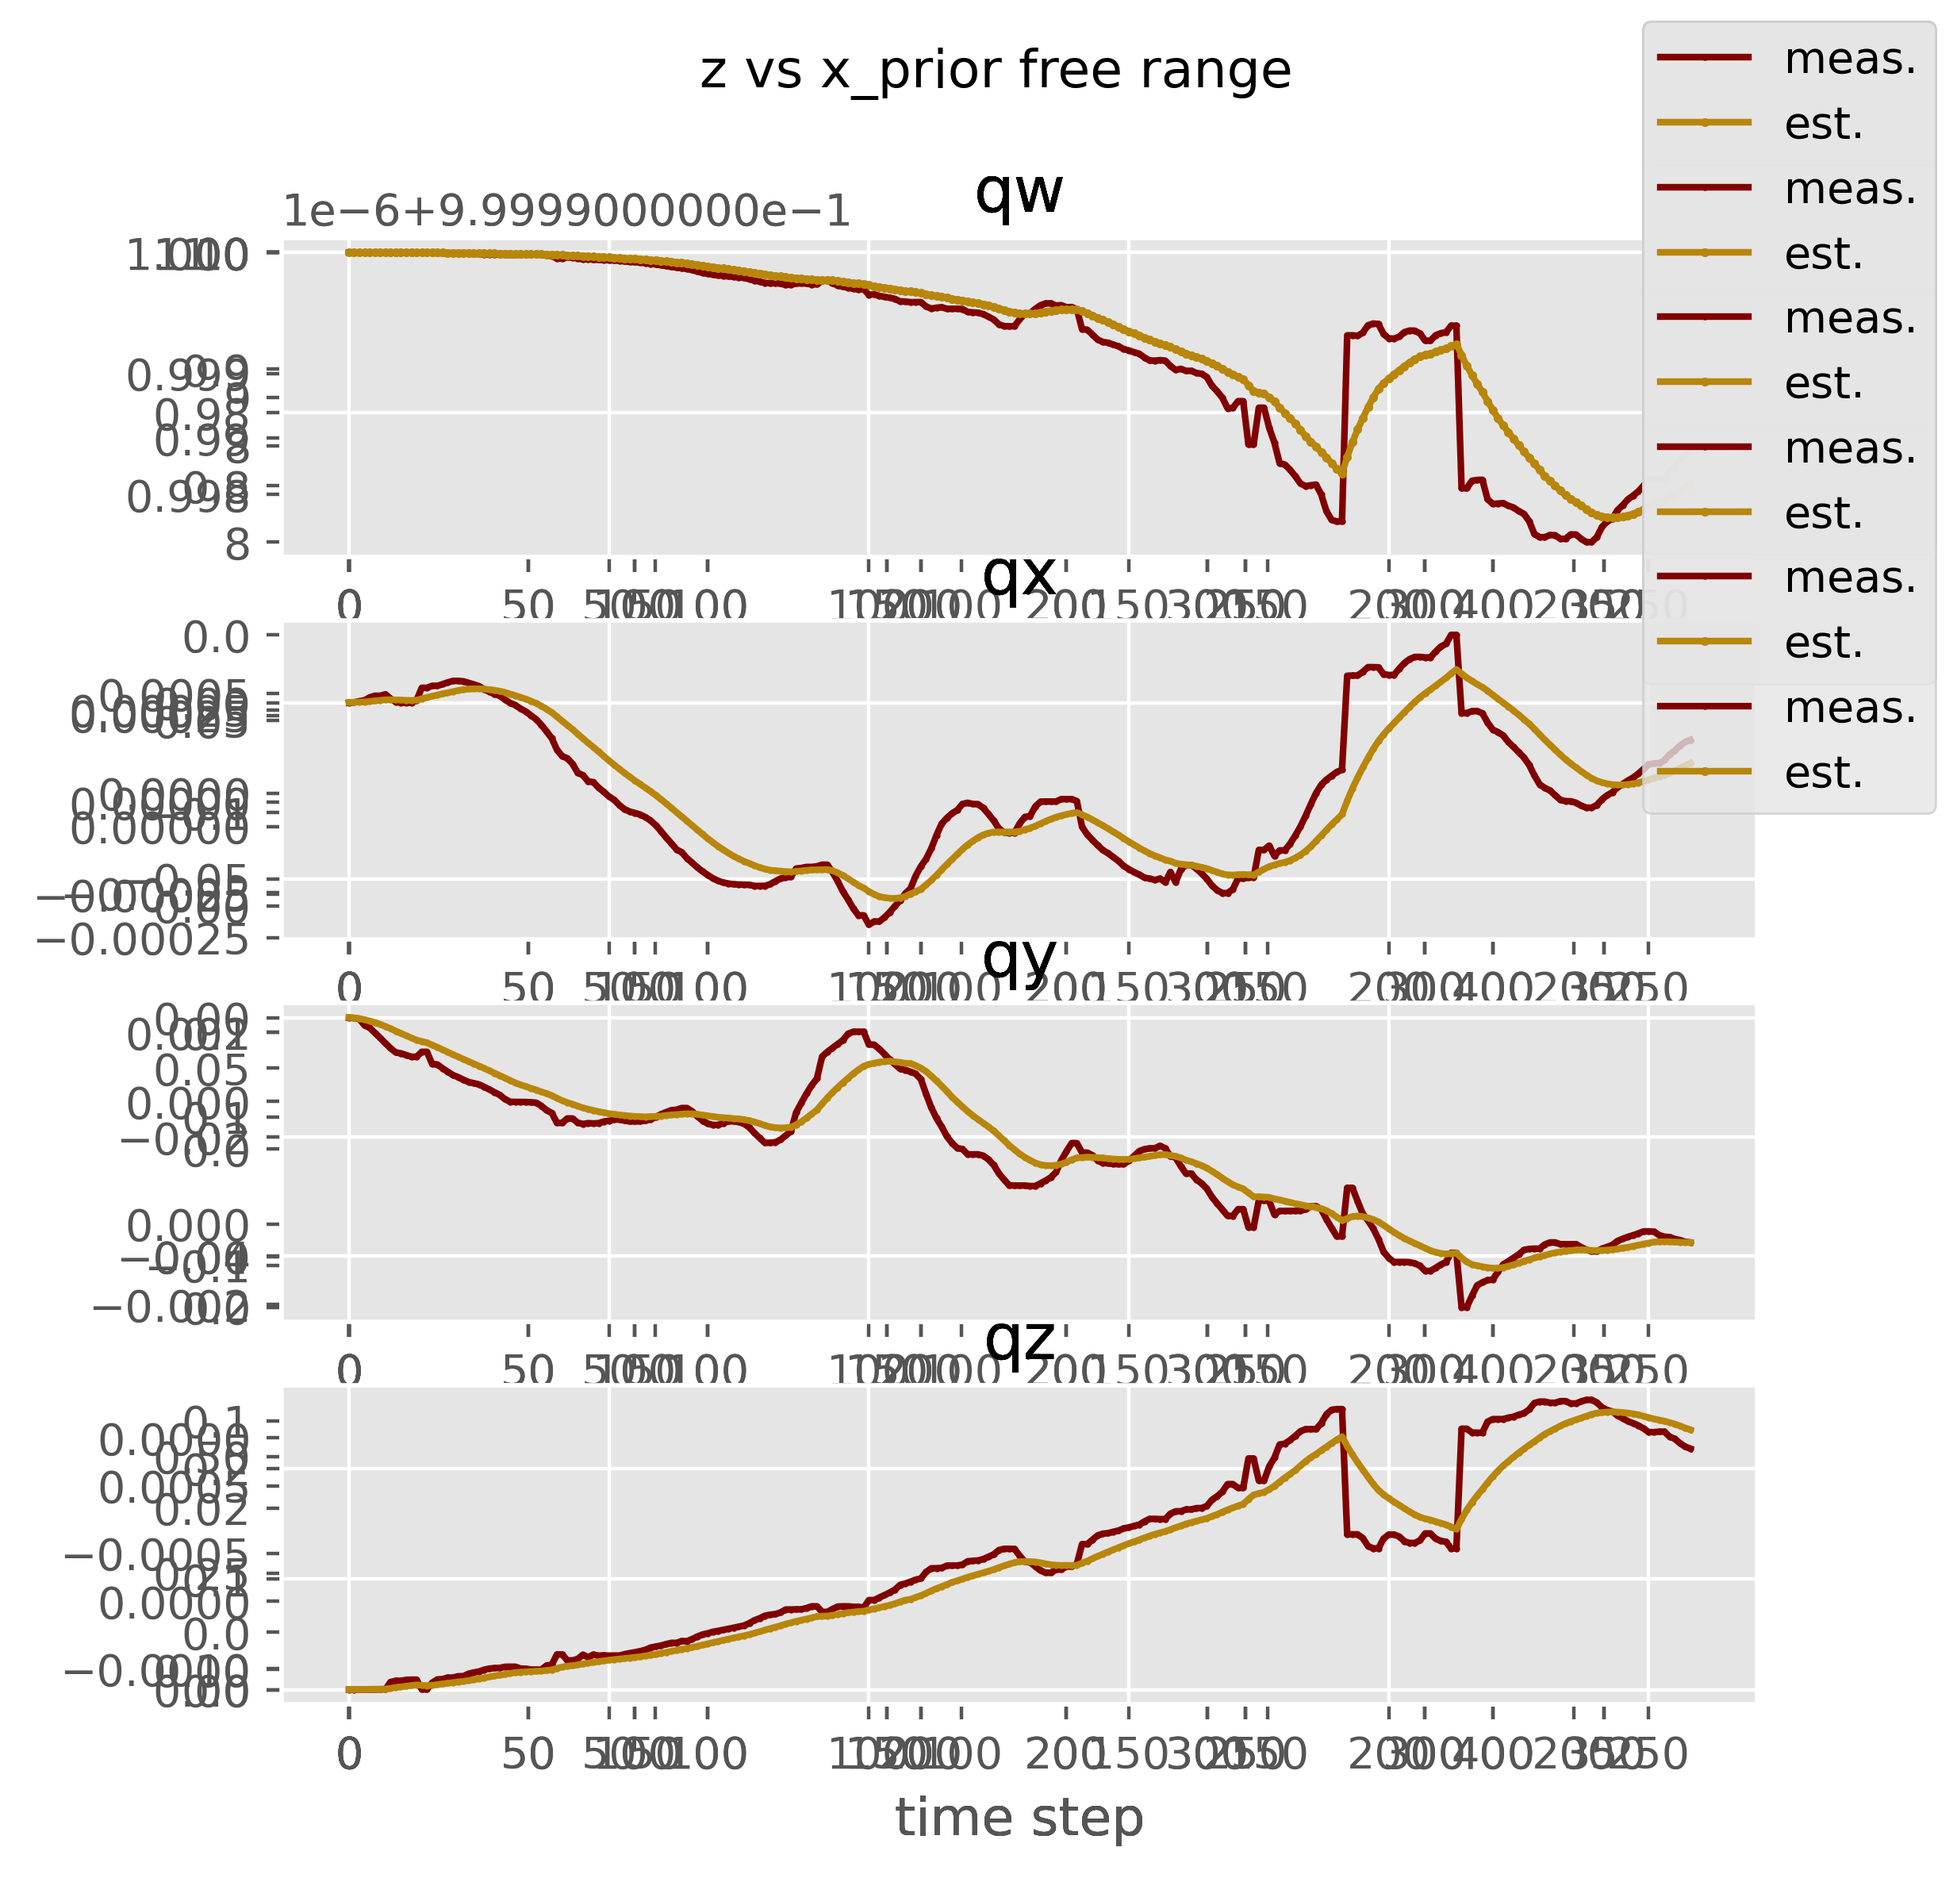
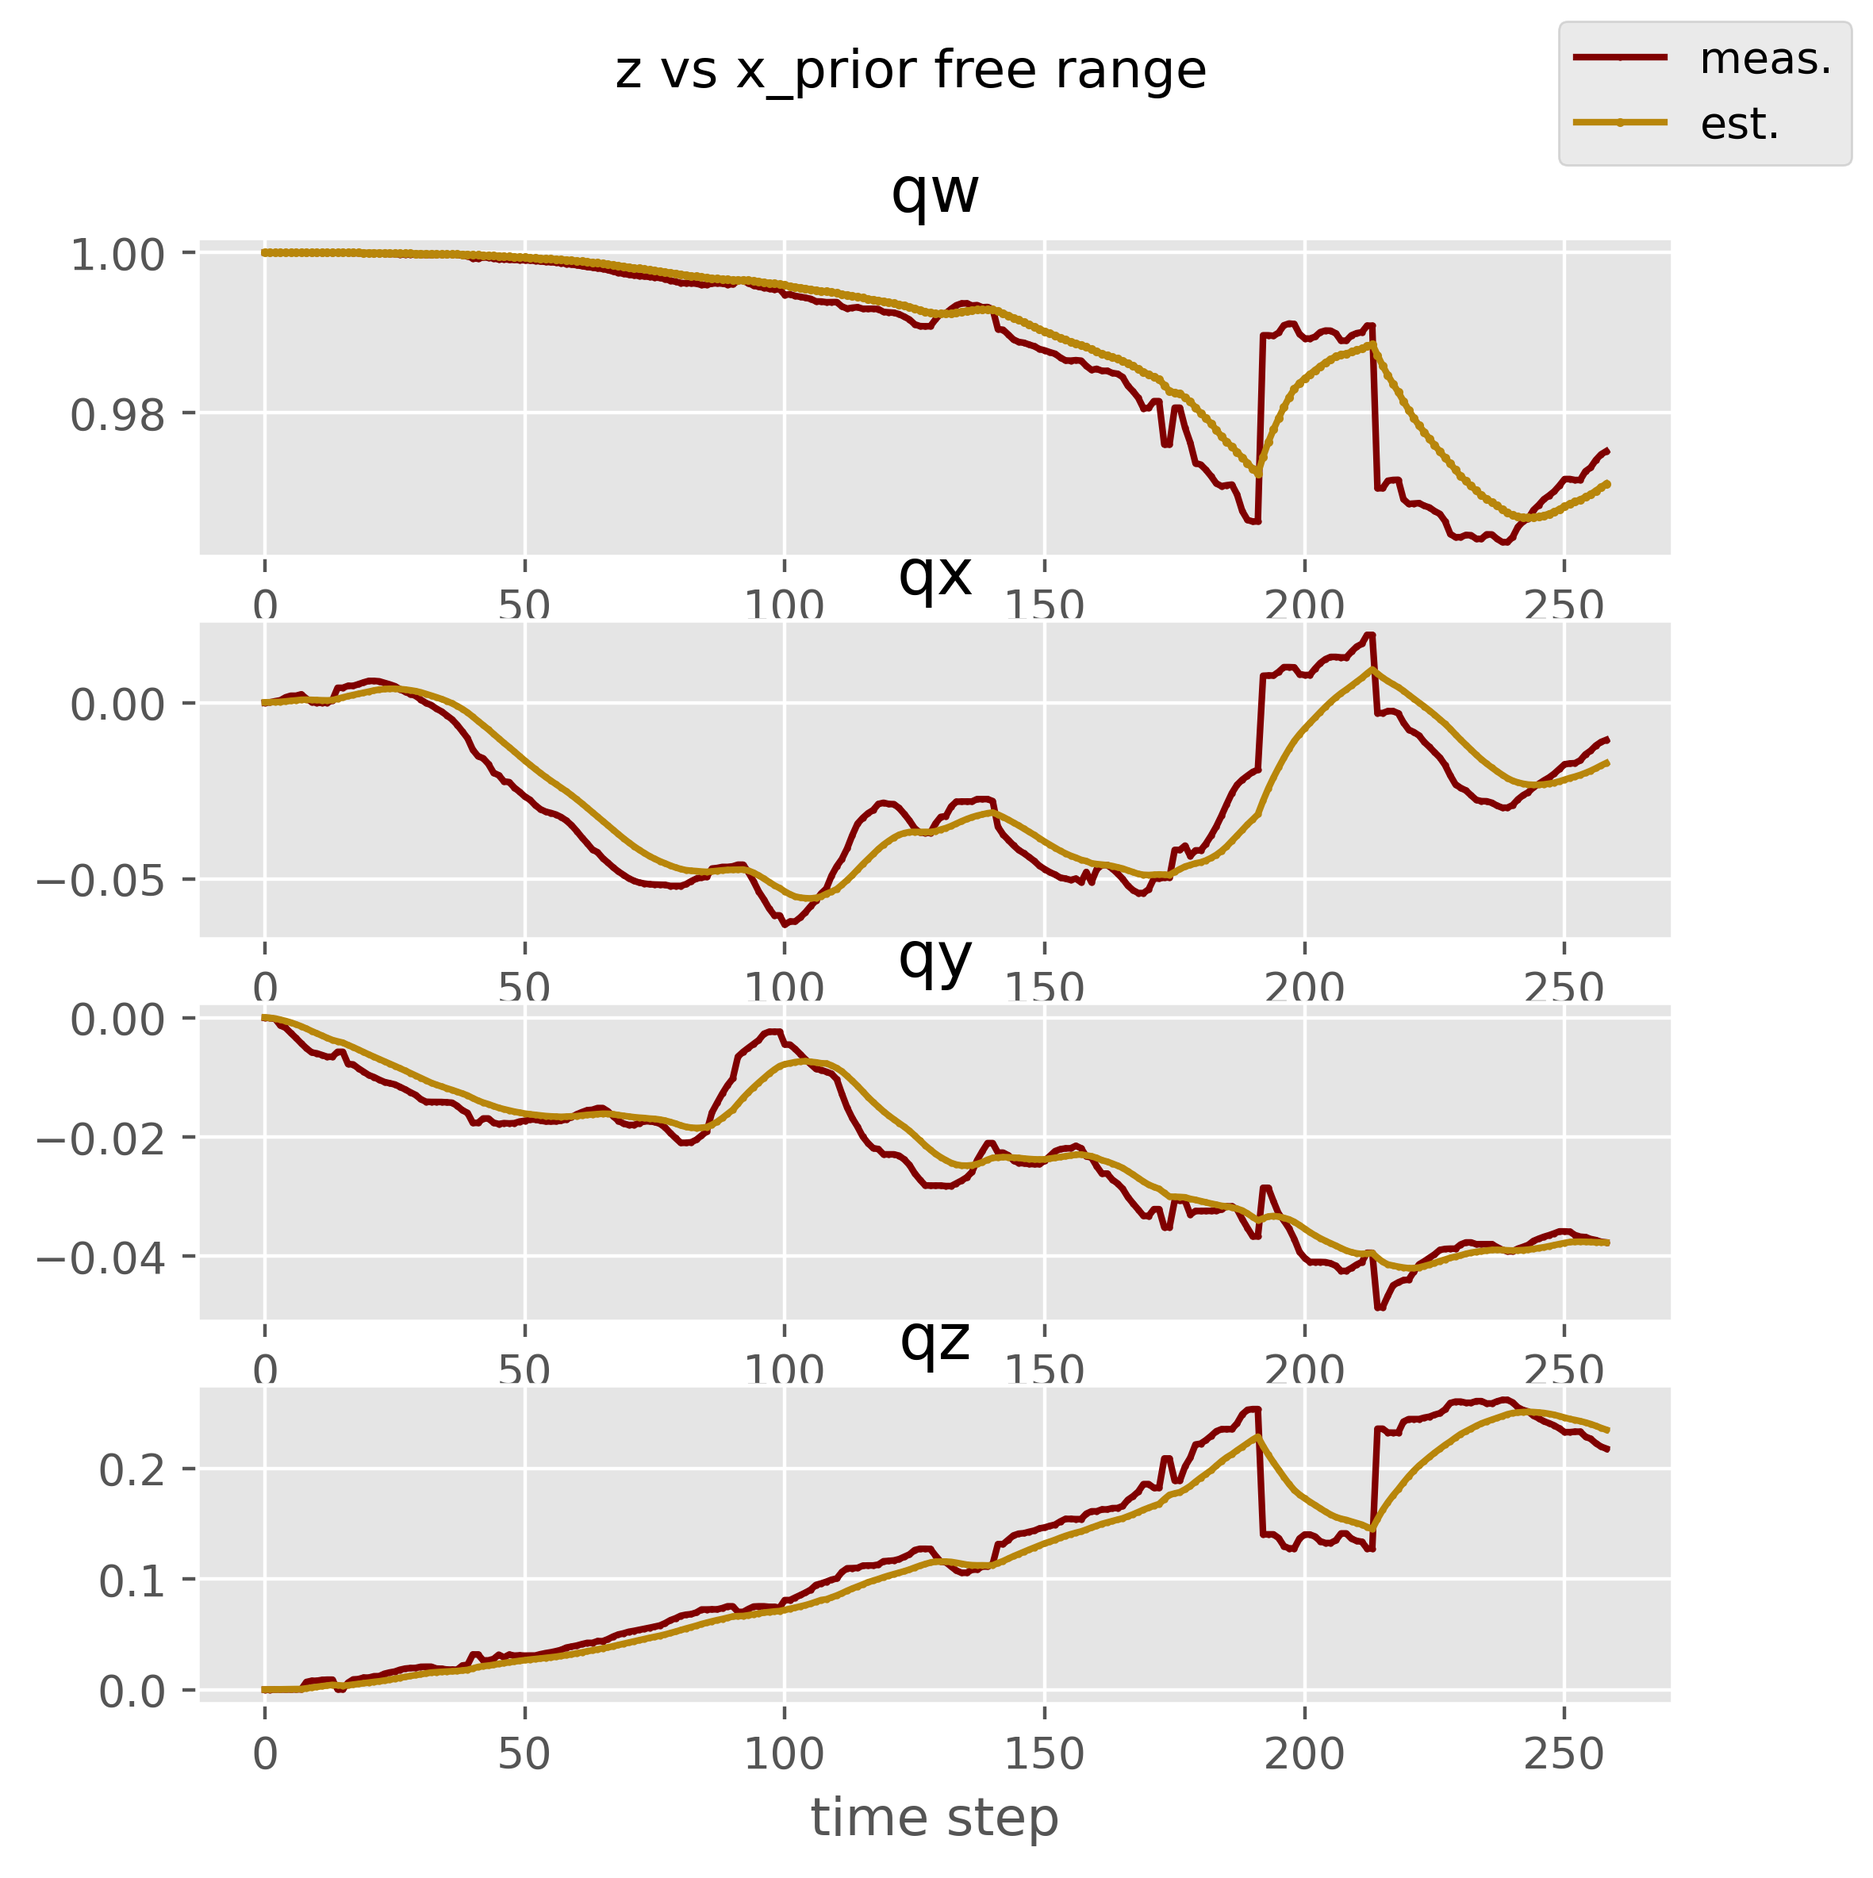
Updated with git-express on 2022-03-08.

diff --git a/dev/QEKF/python/qekf.py b/dev/QEKF/python/qekf.py
@@ -40,9 +40,9 @@ class QEKF(object):
     ''' state vectors'''
     self.x_TVQxyz = np.zeros((dim_x,1), dtype=np.float64) + .0001
     self.P = np.eye(dim_x) * P_est_0  # uncertainty covariance
-    self.F = np.eye(dim_x)     # state transition matrix
-    self.R = np.eye(dim_z)        # state uncertainty
-    self.Q_c = np.eye(dim_x)        # process uncertainty
+    self.F = np.eye(dim_x) # state transition matrix
+    self.R = np.eye(dim_z) # state uncertainty
+    self.Q_c = np.eye(dim_x) # process uncertainty
     # self.y_TVQxyz = np.zeros((dim_z, 1)) # residual
     self.T_ = deltaT #time-period
     self.K = np.zeros((dim_x,1)) # kalman gain
@@ -121,8 +121,7 @@ class QEKF(object):
     ''' estimation model
       - eq 16-22 of QEKF2
       - this routine is essentially discrete form of \hat{x}_{k|k-1} =\
-        f(\hat{x}_{k-1|k-1}, u_{k})
-    '''
+        f(\hat{x}_{k-1|k-1}, u_{k}) '''
     # est linPos
     x_TVQxyz[0:3] = x_TVQxyz[0:3]+self.T_*x_TVQxyz[3:6]
     # est linVel

diff --git a/dev/QEKF/python/main.py b/dev/QEKF/python/main.py
@@ -1,6 +1,5 @@
 
 # import numpy as np
-import matplotlib
 import pandas as pd
 import time
 
@@ -25,13 +24,9 @@ _save         = True
 _prt          = True
 # _START        = 0
 # _END          = 150
-_TEST_MODE    = 'all'; _TEST_ID = None
-# _TEST_ID      = 13; _TEST_MODE = 'single'
+# _TEST_MODE    = 'all'; _TEST_ID = None
+_TEST_ID      = 5; _TEST_MODE = 'single'
 
-
-''' matplotlib config '''
-# matplotlib.pyplot.ion()
-# plt.style.use('ggplot')
 
 ''' datasets
  0  'dataset-iphone1_clean'
